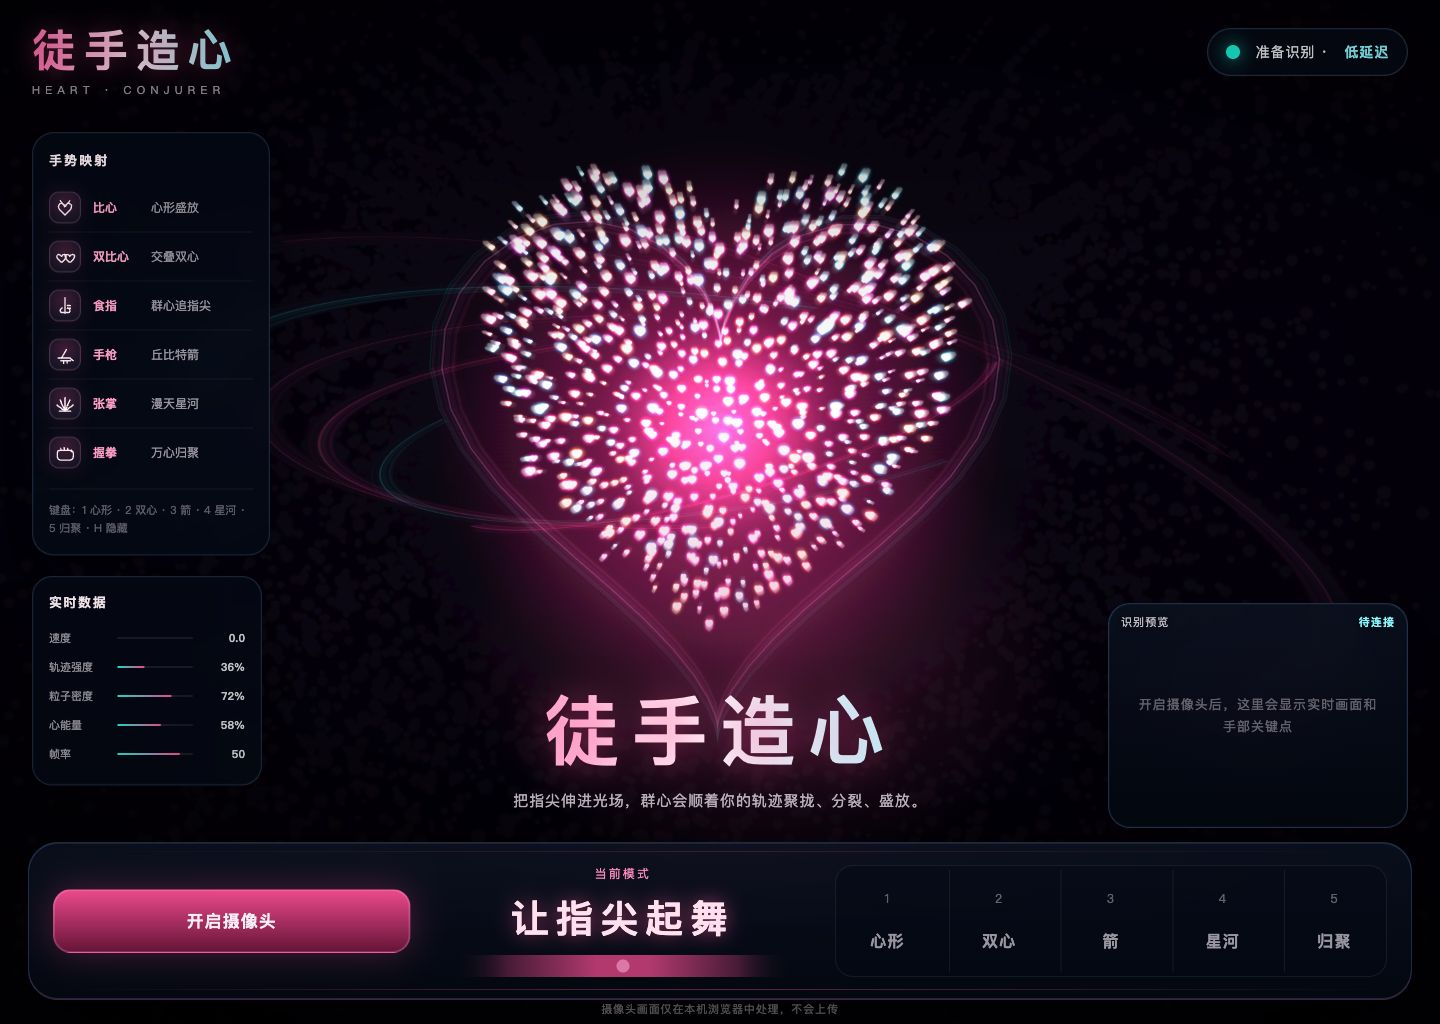
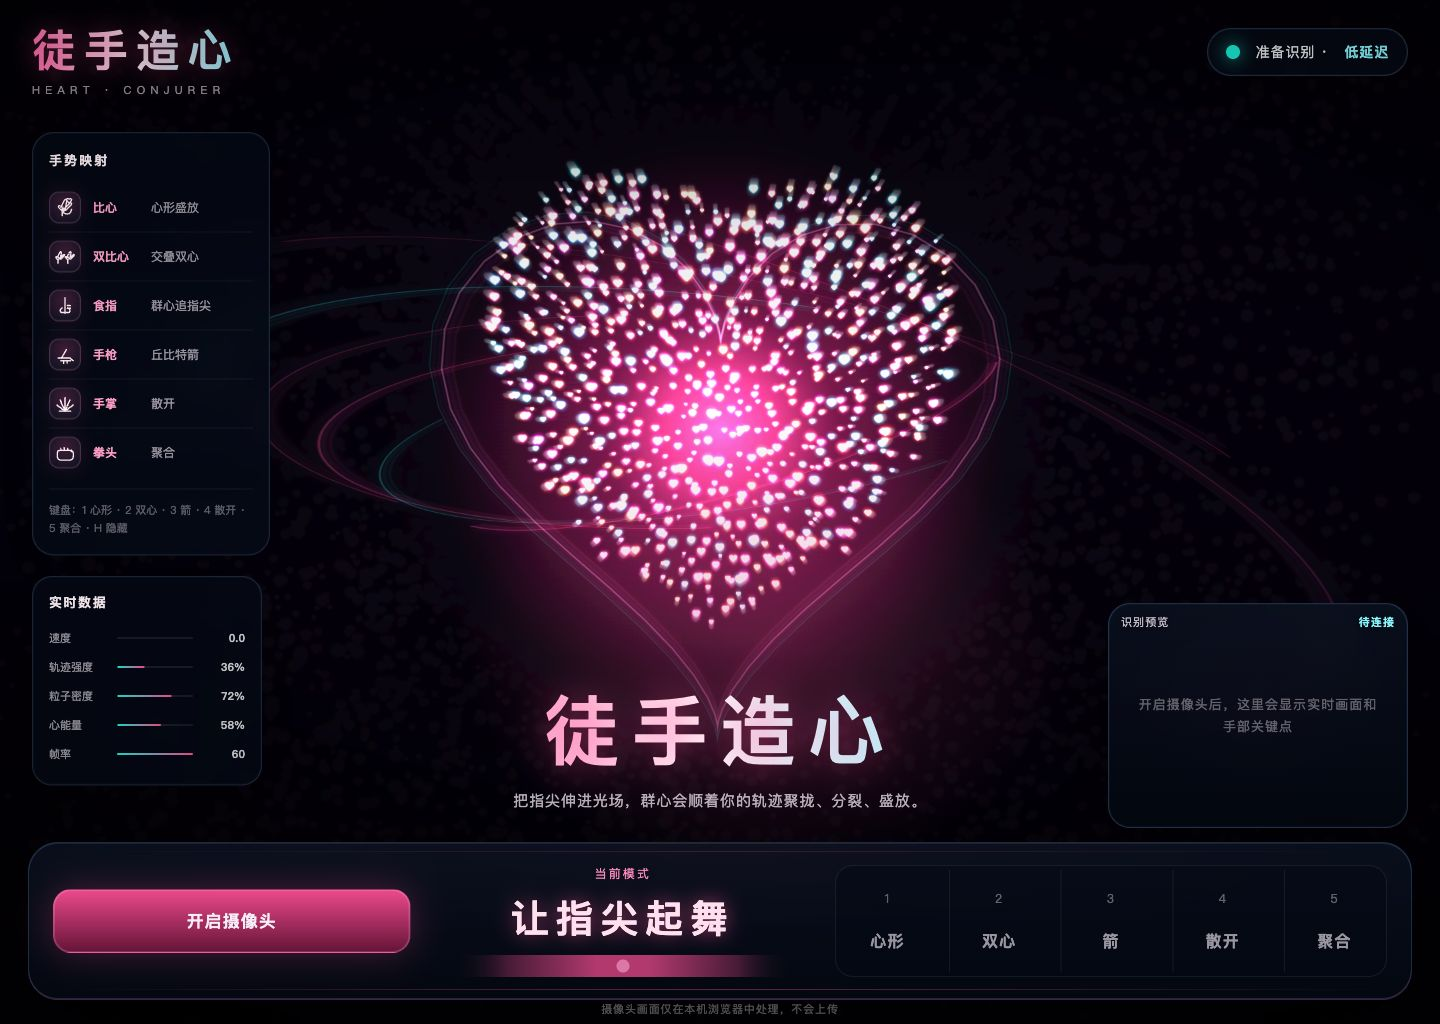
Refine finger heart gestures

diff --git a/index.html b/index.html
@@ -334,11 +334,11 @@
   <div id="legend">
     <h3>手势映射</h3>
     <div class="row">
-      <span class="gesture-icon" aria-hidden="true"><svg viewBox="0 0 36 36"><path d="M11 8l7 9M25 8l-7 9"/><path d="M18 29l-7-7c-4-4-3-10 2-10 2 0 4 2 5 4 1-2 3-4 5-4 5 0 6 6 2 10l-7 7z"/></svg></span>
+      <span class="gesture-icon" aria-hidden="true"><svg viewBox="0 0 36 36"><path d="M14 30v-7l-5-5c-1.4-1.4-.2-3.5 1.6-2.6l4.4 2.2"/><path d="M15 22l10-10c1.3-1.3 3.4.4 2.1 1.9l-8.1 8.3"/><path d="M12 18l5.6-11c.9-1.8 3.4-.9 3 1l-2.2 11.5"/><path d="M15 25c3.4 3 8.8 3.5 11.2-.4l1.2-4"/><path d="M15 19l-2.5 3M18 21l-2 3"/><path d="M24 6c1.8-2.2 5 .2 3.1 2.5L24 12l-3.1-3.5C19 6.2 22.2 3.8 24 6z"/></svg></span>
       <span class="k">比心</span><span>心形盛放</span>
     </div>
     <div class="row">
-      <span class="gesture-icon" aria-hidden="true"><svg viewBox="0 0 36 36"><path d="M12 26l-4-4c-3-3-2-7 1-7 2 0 3 1 4 3 1-2 2-3 4-3 3 0 4 4 1 7l-4 4z"/><path d="M24 26l-4-4c-3-3-2-7 1-7 2 0 3 1 4 3 1-2 2-3 4-3 3 0 4 4 1 7l-4 4z"/></svg></span>
+      <span class="gesture-icon" aria-hidden="true"><svg viewBox="0 0 36 36"><path d="M8 28v-5l-3-3c-1-1 0-2.4 1.2-1.8l3 1.5"/><path d="M9 22l6.7-6.7c.9-.9 2.3.3 1.4 1.3l-5.4 5.6"/><path d="M7 19l3.8-7.4c.6-1.2 2.3-.6 2 0.7l-1.5 7.8"/><path d="M22 28v-5l-3-3c-1-1 0-2.4 1.2-1.8l3 1.5"/><path d="M23 22l6.7-6.7c.9-.9 2.3.3 1.4 1.3l-5.4 5.6"/><path d="M21 19l3.8-7.4c.6-1.2 2.3-.6 2 0.7l-1.5 7.8"/></svg></span>
       <span class="k">双比心</span><span>交叠双心</span>
     </div>
     <div class="row">
@@ -351,13 +351,13 @@
     </div>
     <div class="row">
       <span class="gesture-icon" aria-hidden="true"><svg viewBox="0 0 36 36"><path d="M18 29V9M18 29l-7-16M18 29l7-16M18 29l-12-9M18 29l12-9"/><path d="M10 29h16"/></svg></span>
-      <span class="k">张掌</span><span>漫天星河</span>
+      <span class="k">手掌</span><span>散开</span>
     </div>
     <div class="row">
       <span class="gesture-icon" aria-hidden="true"><svg viewBox="0 0 36 36"><path d="M10 15h16c2 0 4 2 4 4v5c0 3-2 5-5 5H12c-3 0-5-2-5-5v-5c0-2 1-4 3-4z"/><path d="M12 15v-3M17 15v-4M22 15v-3M27 17v-3"/></svg></span>
-      <span class="k">握拳</span><span>万心归聚</span>
+      <span class="k">拳头</span><span>聚合</span>
     </div>
-    <div class="hint">键盘：1 心形 · 2 双心 · 3 箭 · 4 星河 · 5 归聚 · H 隐藏</div>
+    <div class="hint">键盘：1 心形 · 2 双心 · 3 箭 · 4 散开 · 5 聚合 · H 隐藏</div>
   </div>
 
   <div id="telemetry">
@@ -385,8 +385,8 @@
       <button class="mode-button" data-mode="rose"><span class="key">1</span><span class="name">心形</span></button>
       <button class="mode-button" data-mode="doubleheart"><span class="key">2</span><span class="name">双心</span></button>
       <button class="mode-button" data-mode="arrow"><span class="key">3</span><span class="name">箭</span></button>
-      <button class="mode-button" data-mode="galaxy"><span class="key">4</span><span class="name">星河</span></button>
-      <button class="mode-button" data-mode="gather"><span class="key">5</span><span class="name">归聚</span></button>
+      <button class="mode-button" data-mode="galaxy"><span class="key">4</span><span class="name">散开</span></button>
+      <button class="mode-button" data-mode="gather"><span class="key">5</span><span class="name">聚合</span></button>
     </div>
   </div>
 
@@ -653,8 +653,12 @@ function fingersOf(lm) {
 }
 function isFingerHeart(lm, ext = fingersOf(lm)) {
   const palm = Math.max(0.001, Math.hypot(lm[0].x - lm[9].x, lm[0].y - lm[9].y));
-  const pinch = Math.hypot(lm[4].x - lm[8].x, lm[4].y - lm[8].y) < palm * 0.62;
-  return pinch && !ext[2] && !ext[3] && !ext[4];
+  const thumbToIndex = Math.min(
+    Math.hypot(lm[4].x - lm[8].x, lm[4].y - lm[8].y),
+    Math.hypot(lm[4].x - lm[7].x, lm[4].y - lm[7].y),
+    Math.hypot(lm[4].x - lm[6].x, lm[4].y - lm[6].y)
+  );
+  return ext[1] && thumbToIndex < palm * 0.72 && !ext[2] && !ext[3] && !ext[4];
 }
 function classifyHand(lm) {
   const e = fingersOf(lm); const idx = e[1], mid = e[2], ring = e[3], pky = e[4], th = e[0];
@@ -662,7 +666,7 @@ function classifyHand(lm) {
   if (!idx && !mid && !ring && !pky) return 'gather';                  // 握拳
   if (th && idx && !mid && !ring && !pky) return 'arrow';              // 手枪
   if (idx && !mid && !ring && !pky) return 'chase';                    // 食指
-  if (((idx?1:0)+(mid?1:0)+(ring?1:0)+(pky?1:0)) >= 3) return 'galaxy'; // 张掌
+  if (((idx?1:0)+(mid?1:0)+(ring?1:0)+(pky?1:0)) >= 3) return 'galaxy'; // 手掌打开
   return null;
 }
 function sceneGesture() {
@@ -809,7 +813,7 @@ let committedG = null, pendG = null, pendCount = 0, nullCount = 0;
 let forcedMode = null, forcedUntil = 0;
 const MODE_LABEL = {
   chase: '群心逐指尖', rose: '心形盛放', doubleheart: '交叠双心',
-  arrow: '丘比特之箭', galaxy: '漫天星河', gather: '万心归聚', idle: '让指尖起舞',
+  arrow: '丘比特之箭', galaxy: '星河散开', gather: '万心聚合', idle: '让指尖起舞',
 };
 function forceMode(m) { forcedMode = m; forcedUntil = performance.now() + 14000; toast(MODE_LABEL[m] + ' （手动）'); }
 function decideMode() {

diff --git a/README.md b/README.md
@@ -2,7 +2,7 @@
 
 在线展示：https://liyincode.github.io/heart-conjurer/
 
-摄像头识别手势，挥手造出**成群发光的爱心**追着指尖飞；聚散变阵成 💗心形 / 💞双心 / 🏹丘比特之箭 / 🌌漫天星河。霓虹流光、粒子拖尾、心跳光晕、柔光的梦幻浪漫画风。
+摄像头识别手势，挥手造出**成群发光的爱心**追着指尖飞；聚散变阵成 💗心形 / 💞双心 / 🏹丘比特之箭 / 🌌散开星河。霓虹流光、粒子拖尾、心跳光晕、柔光的梦幻浪漫画风。
 
 纯前端单文件，零构建。手势识别用 **MediaPipe Tasks `HandLandmarker`**（Google 开源库，CDN 加载，未造轮子）。
 
@@ -23,14 +23,14 @@ python3 -m http.server 5173
 
 | 手势 | 效果 |
 | --- | --- |
-| 🤏 单手比心 | 心形盛放 |
-| 🤏🤏 双手同时比心 | 交叠双心 |
+| 🤏 单手手指比心 | 心形盛放 |
+| 🤏🤏 双手同时手指比心 | 交叠双心 |
 | ☝ 食指 | 群心追着指尖飞（挥得越快越汹涌） |
 | 🔫 手枪手势（拇指+食指伸直） | 丘比特之箭（顺着手指朝向） |
-| 🖐 张开手掌 | 漫天星河大阵 |
-| ✊ 握拳 | 万心归聚 |
+| 🖐 手掌打开 | 散开成星河 |
+| ✊ 拳头 | 万心聚合 |
 
-**键盘**：`1` 心形 · `2` 双心 · `3` 之箭 · `4` 星河 · `5` 归聚 · `H` 隐藏说明 · `V` 摄像头预览 · `M` 心跳音效
+**键盘**：`1` 心形 · `2` 双心 · `3` 之箭 · `4` 散开 · `5` 聚合 · `H` 隐藏说明 · `V` 摄像头预览 · `M` 心跳音效
 
 ## 摄像头
 

diff --git a/design-qa.md b/design-qa.md
@@ -54,6 +54,7 @@
 - Anchored hand-driven formations to the stage center, while keeping hand position for small pointer feedback and arrow direction.
 - Added gesture icons to the desktop gesture mapping panel so users can see how to pose each hand.
 - Reworked gesture mapping so single-hand finger heart triggers the heart, both hands doing finger hearts triggers double heart, open palm triggers galaxy, pistol triggers arrow, index finger triggers chase, and fist triggers gather.
+- Refined the finger-heart icon toward the Korean finger-heart pose, and renamed open palm/fist actions to scatter/gather language in the UI.
 
 **Follow-up Polish**
 - A future pass could tune the preview panel size after testing with a real camera feed on the target display.
